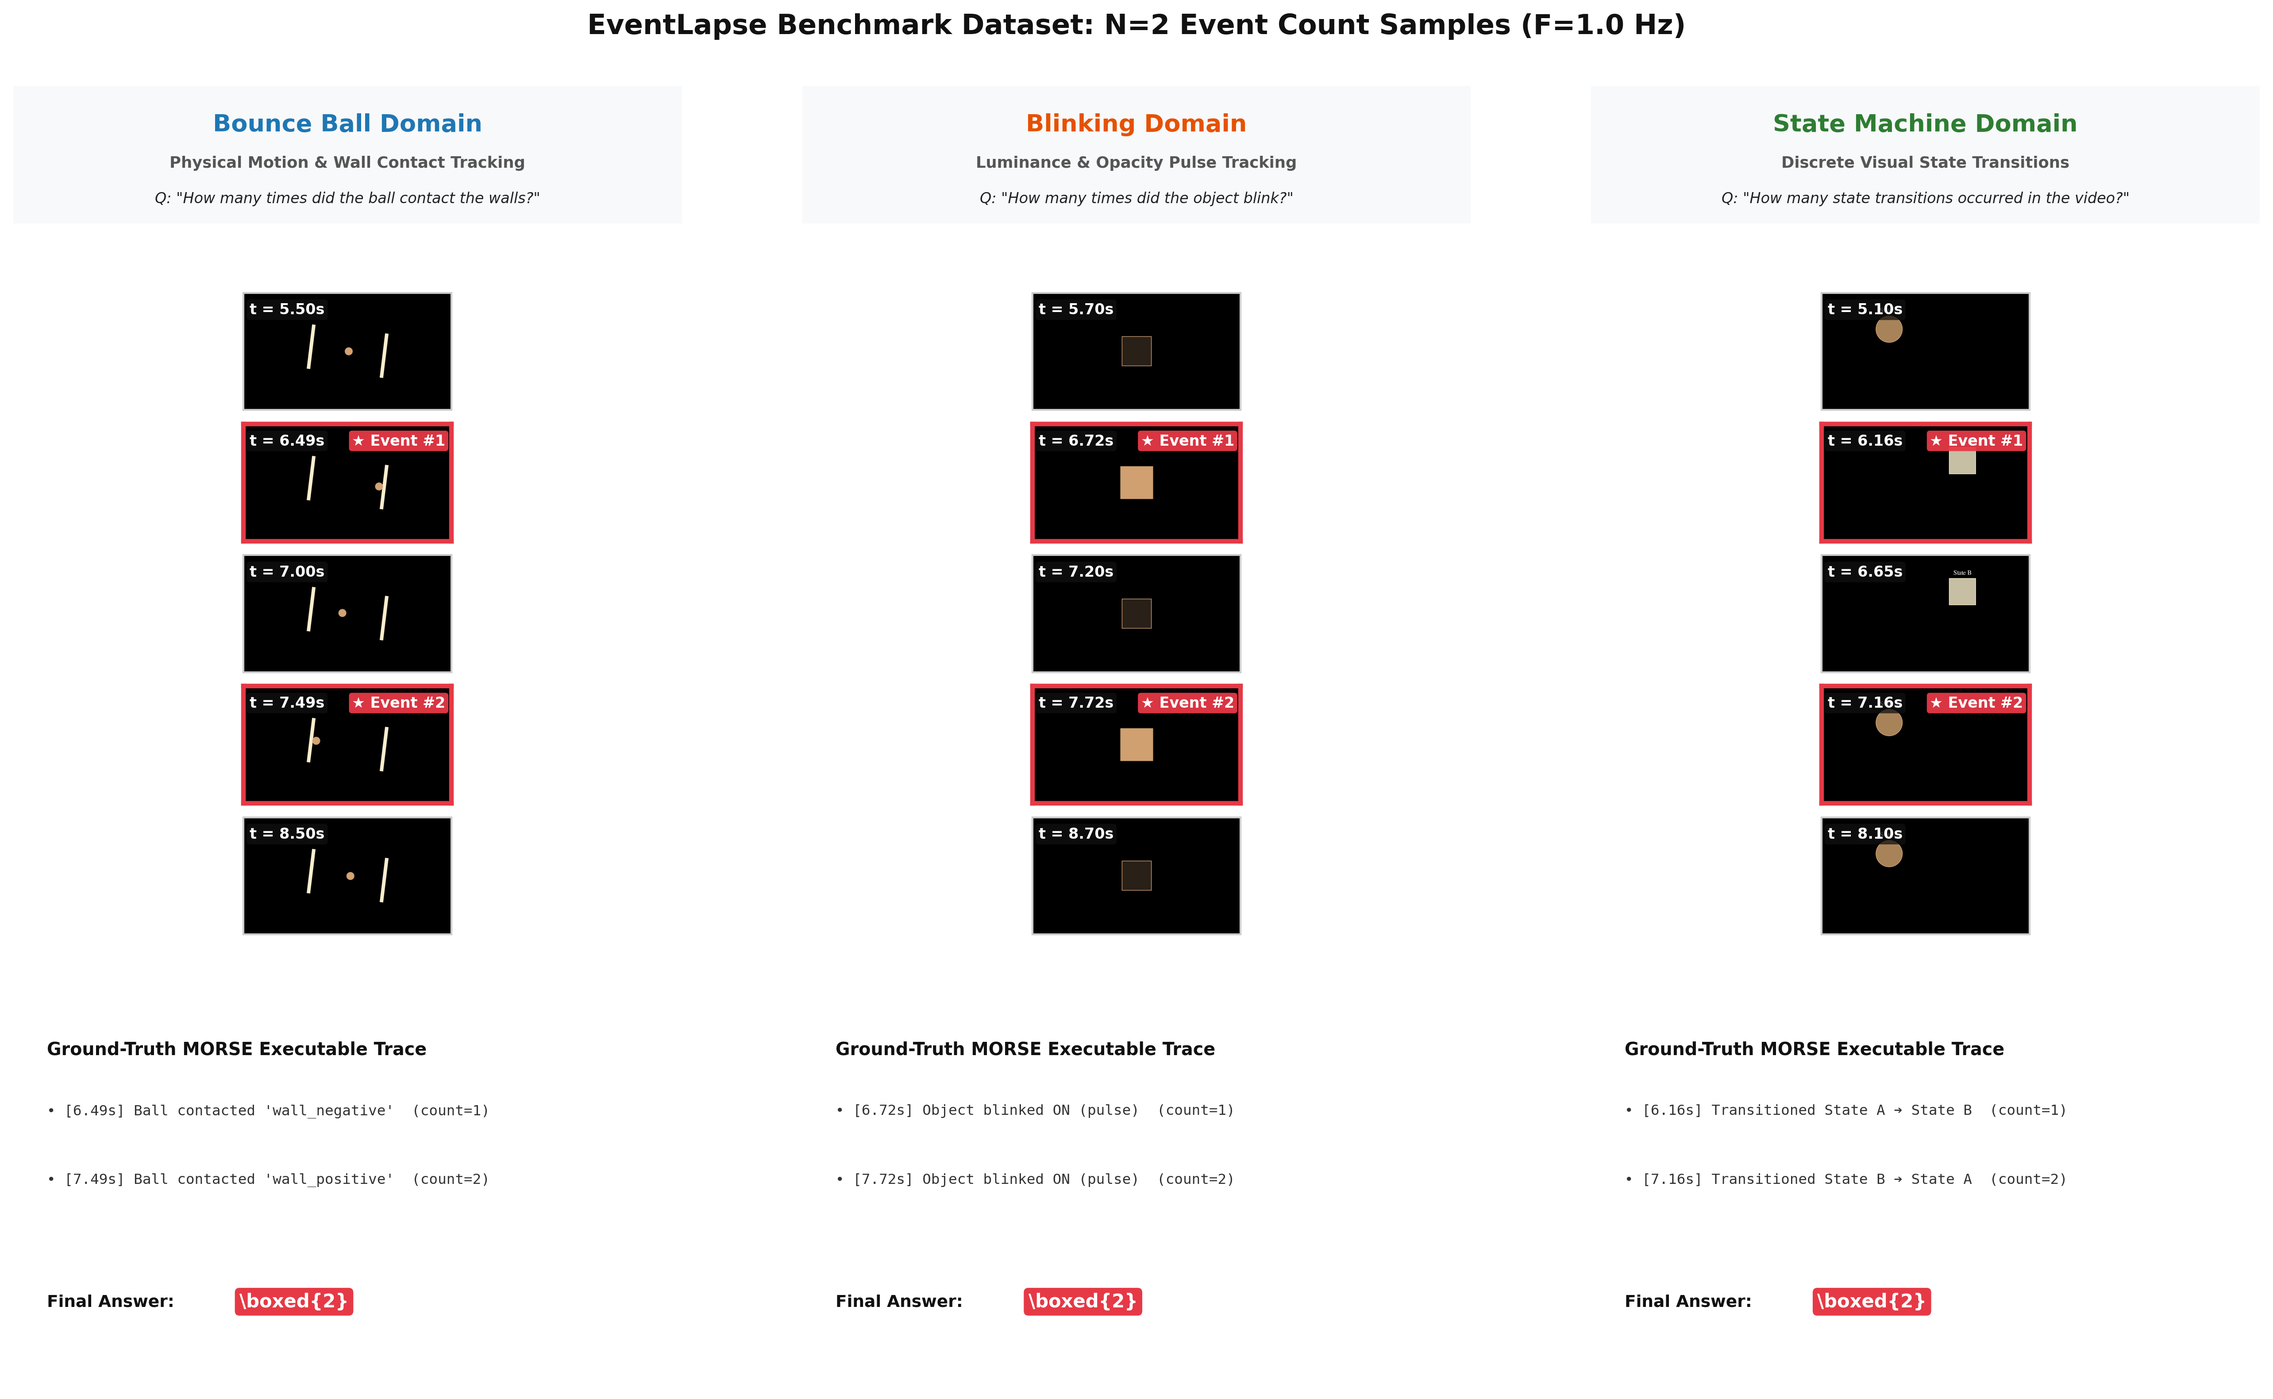
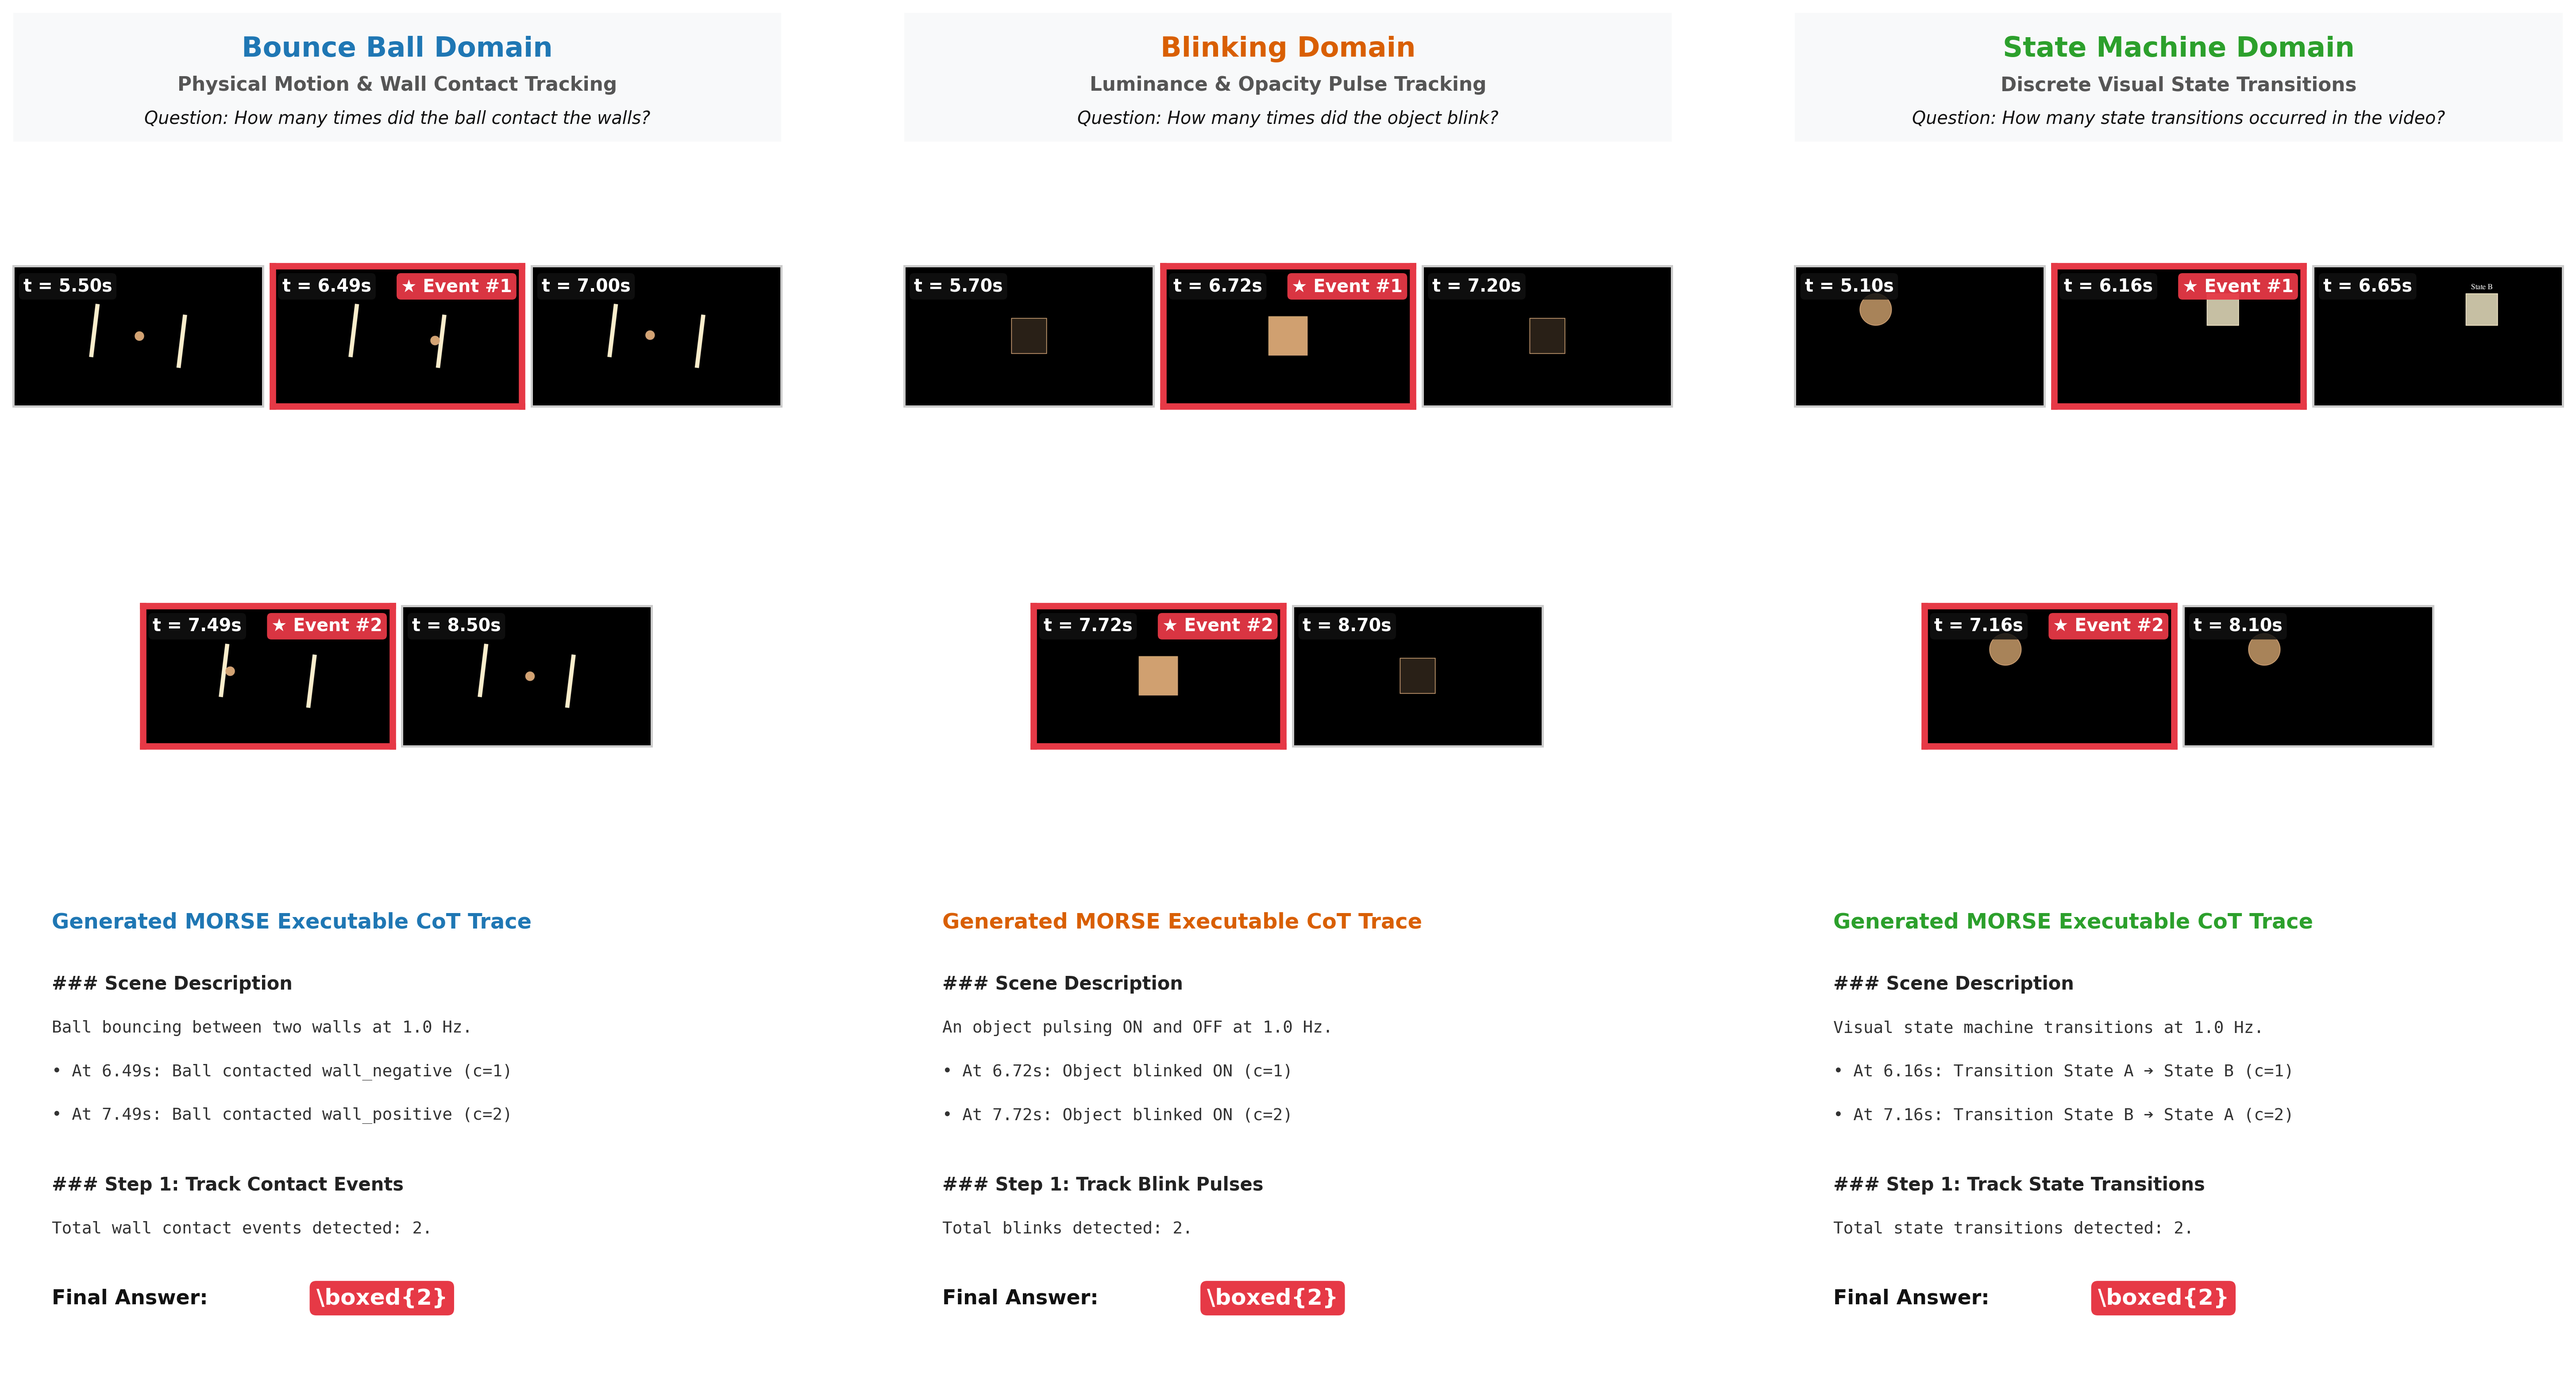
Update dataset overview figure with 2-row horizontal frame grid, larger text, no figure title, and full detailed CoT trace text

diff --git a/scripts/make_dataset_overview_figure.py b/scripts/make_dataset_overview_figure.py
@@ -38,35 +38,62 @@ def build_dataset_overview_figure(output_path: Path):
         {
             "domain": "Bounce Ball Domain",
             "subtitle": "Physical Motion & Wall Contact Tracking",
-            "question": "Q: \"How many times did the ball contact the walls?\"",
+            "question": "Question: How many times did the ball contact the walls?",
             "video_path": demo_dir / "videos/bounce_ball/bounce_N2_F1.0_seed0.mp4",
-            "gt_path": demo_dir / "gt/bounce_ball/bounce_N2_F1.0_seed0_gt.json",
-            "trace_path": demo_dir / "traces/bounce_ball/bounce_N2_F1.0_seed0_trace.json",
             "sample_ts": [5.50, 6.49, 7.00, 7.49, 8.50],
-            "event_indices": [1, 3], # 0-indexed position in sample_ts that are events
+            "event_indices": [1, 3],
             "color": "#1f77b4",
+            "cot_lines": [
+                "### Scene Description",
+                "Ball bouncing between two walls at 1.0 Hz.",
+                "• At 6.49s: Ball contacted wall_negative (c=1)",
+                "• At 7.49s: Ball contacted wall_positive (c=2)",
+                "",
+                "### Step 1: Track Contact Events",
+                "Total wall contact events detected: 2.",
+                "",
+                "Final Answer:  \\boxed{2}"
+            ]
         },
         {
             "domain": "Blinking Domain",
             "subtitle": "Luminance & Opacity Pulse Tracking",
-            "question": "Q: \"How many times did the object blink?\"",
+            "question": "Question: How many times did the object blink?",
             "video_path": demo_dir / "videos/blinking/blinking_N2_F1.0_seed0.mp4",
-            "gt_path": demo_dir / "gt/blinking/blinking_N2_F1.0_seed0_gt.json",
-            "trace_path": demo_dir / "traces/blinking/blinking_N2_F1.0_seed0_trace.json",
             "sample_ts": [5.70, 6.72, 7.20, 7.72, 8.70],
             "event_indices": [1, 3],
-            "color": "#e65100",
+            "color": "#d95f02",
+            "cot_lines": [
+                "### Scene Description",
+                "An object pulsing ON and OFF at 1.0 Hz.",
+                "• At 6.72s: Object blinked ON (c=1)",
+                "• At 7.72s: Object blinked ON (c=2)",
+                "",
+                "### Step 1: Track Blink Pulses",
+                "Total blinks detected: 2.",
+                "",
+                "Final Answer:  \\boxed{2}"
+            ]
         },
         {
             "domain": "State Machine Domain",
             "subtitle": "Discrete Visual State Transitions",
-            "question": "Q: \"How many state transitions occurred in the video?\"",
+            "question": "Question: How many state transitions occurred in the video?",
             "video_path": demo_dir / "videos/state_machine/state_N2_F1.0_seed0.mp4",
-            "gt_path": demo_dir / "gt/state_machine/state_N2_F1.0_seed0_gt.json",
-            "trace_path": demo_dir / "traces/state_machine/state_N2_F1.0_seed0_trace.json",
             "sample_ts": [5.10, 6.16, 6.65, 7.16, 8.10],
             "event_indices": [1, 3],
-            "color": "#2e7d32",
+            "color": "#2ca02c",
+            "cot_lines": [
+                "### Scene Description",
+                "Visual state machine transitions at 1.0 Hz.",
+                "• At 6.16s: Transition State A ➔ State B (c=1)",
+                "• At 7.16s: Transition State B ➔ State A (c=2)",
+                "",
+                "### Step 1: Track State Transitions",
+                "Total state transitions detected: 2.",
+                "",
+                "Final Answer:  \\boxed{2}"
+            ]
         }
     ]
 
@@ -74,48 +101,51 @@ def build_dataset_overview_figure(output_path: Path):
     plt.rcParams["figure.facecolor"] = "white"
     plt.rcParams["axes.facecolor"] = "white"
 
-    fig = plt.figure(figsize=(18, 11), dpi=300, facecolor="white")
-    
-    # 3 Main Columns
-    col_gs = gridspec.GridSpec(1, 3, figure=fig, wspace=0.18, left=0.03, right=0.97, top=0.92, bottom=0.03)
+    # Widescreen 3-column figure layout
+    fig = plt.figure(figsize=(20, 11), dpi=300, facecolor="white")
+    col_gs = gridspec.GridSpec(1, 3, figure=fig, wspace=0.16, left=0.02, right=0.98, top=0.96, bottom=0.02)
 
     for c_idx, tinfo in enumerate(tasks_info):
-        # Sub-gridspec for each column (Header, Frames, Trace)
         col_sub = gridspec.GridSpecFromSubplotSpec(3, 1, subplot_spec=col_gs[c_idx],
-                                                   height_ratios=[0.9, 4.2, 2.5], hspace=0.18)
+                                                   height_ratios=[0.8, 3.8, 3.2], hspace=0.14)
 
-        # --- 1. Header Box (Title & Prompt) ---
+        # --- 1. Header Box (Domain & Prompt) ---
         ax_header = fig.add_subplot(col_sub[0])
         ax_header.axis("off")
 
         header_patch = FancyBboxPatch((0.0, 0.0), 1.0, 1.0, transform=ax_header.transAxes,
-                                      facecolor="#f8f9fa", edgecolor=tinfo["color"], linewidth=2.0,
+                                      facecolor="#f8f9fa", edgecolor=tinfo["color"], linewidth=2.5,
                                       boxstyle=BoxStyle("Round", pad=0.02))
         ax_header.add_patch(header_patch)
 
         ax_header.text(0.5, 0.72, tinfo["domain"], transform=ax_header.transAxes,
-                       fontsize=13, fontweight="bold", color=tinfo["color"], ha="center", va="center")
+                       fontsize=15, fontweight="bold", color=tinfo["color"], ha="center", va="center")
         ax_header.text(0.5, 0.44, tinfo["subtitle"], transform=ax_header.transAxes,
-                       fontsize=8.5, fontweight="bold", color="#555555", ha="center", va="center")
+                       fontsize=10.5, fontweight="bold", color="#555555", ha="center", va="center")
         ax_header.text(0.5, 0.18, tinfo["question"], transform=ax_header.transAxes,
-                       fontsize=8.0, fontstyle="italic", color="#222222", ha="center", va="center")
+                       fontsize=9.5, fontstyle="italic", color="#111111", ha="center", va="center")
 
-        # --- 2. Frames Grid (5 Big Frames Centered Around Events) ---
-        # Extract frames
+        # --- 2. 5 Large Frames arranged in 2 Horizontal Rows (Row 1: 3 frames, Row 2: 2 frames) ---
         extracted = [(ts, extract_frame_at_timestamp(tinfo["video_path"], ts)) for ts in tinfo["sample_ts"]]
 
         ax_frames_container = fig.add_subplot(col_sub[1])
         ax_frames_container.axis("off")
 
-        # Grid of 5 frames stacked vertically (or 5 frames vertically in each column)
-        frame_sub = gridspec.GridSpecFromSubplotSpec(5, 1, subplot_spec=col_sub[1], hspace=0.12)
+        frame_rows_gs = gridspec.GridSpecFromSubplotSpec(2, 6, subplot_spec=col_sub[1], hspace=0.25, wspace=0.08)
 
-        with open(tinfo["trace_path"], "r") as tf:
-            tr_data = json.load(tf)
-            events = tr_data.get("events", [])
+        # Frame 0, 1, 2 in Row 1 (spanning 2 columns each: cols 0-1, 2-3, 4-5)
+        # Frame 3, 4 in Row 2 (centered: cols 1-2, 3-4)
+        frame_positions = [
+            (0, slice(0, 2)), # Frame 0
+            (0, slice(2, 4)), # Frame 1 (Event #1)
+            (0, slice(4, 6)), # Frame 2
+            (1, slice(1, 3)), # Frame 3 (Event #2)
+            (1, slice(3, 5)), # Frame 4
+        ]
 
         for k, (ts, img) in enumerate(extracted):
-            ax_f = fig.add_subplot(frame_sub[k])
+            r_idx, c_slice = frame_positions[k]
+            ax_f = fig.add_subplot(frame_rows_gs[r_idx, c_slice])
             ax_f.imshow(img)
             ax_f.set_xticks([])
             ax_f.set_yticks([])
@@ -124,59 +154,55 @@ def build_dataset_overview_figure(output_path: Path):
             event_num = 1 if k == 1 else (2 if k == 3 else None)
 
             border_color = "#e63946" if is_event else "#cccccc"
-            border_width = 2.5 if is_event else 1.0
+            border_width = 3.5 if is_event else 1.2
 
             for spine in ax_f.spines.values():
                 spine.set_edgecolor(border_color)
                 spine.set_linewidth(border_width)
 
-            # Left badge: timestamp
-            ax_f.text(0.03, 0.82, f"t = {ts:.2f}s", transform=ax_f.transAxes,
-                      fontsize=8, fontweight="bold", color="white",
-                      bbox=dict(boxstyle="round,pad=0.2", facecolor="#111111", edgecolor="none", alpha=0.75))
+            # Top timestamp badge
+            ax_f.text(0.04, 0.82, f"t = {ts:.2f}s", transform=ax_f.transAxes,
+                      fontsize=9.5, fontweight="bold", color="white",
+                      bbox=dict(boxstyle="round,pad=0.25", facecolor="#111111", edgecolor="none", alpha=0.85))
 
-            # Right badge: Event indicator
+            # Event badge
             if is_event:
-                ax_f.text(0.97, 0.82, f"★ Event #{event_num}", transform=ax_f.transAxes,
-                          fontsize=8, fontweight="bold", color="white", ha="right",
-                          bbox=dict(boxstyle="round,pad=0.2", facecolor="#e63946", edgecolor="none", alpha=0.95))
+                ax_f.text(0.96, 0.82, f"★ Event #{event_num}", transform=ax_f.transAxes,
+                          fontsize=9.5, fontweight="bold", color="white", ha="right",
+                          bbox=dict(boxstyle="round,pad=0.25", facecolor="#e63946", edgecolor="none", alpha=0.95))
 
-        # --- 3. Actual Generated Trace Example ---
+        # --- 3. Full Detailed Generated Trace Box ---
         ax_trace = fig.add_subplot(col_sub[2])
         ax_trace.axis("off")
 
         trace_patch = FancyBboxPatch((0.0, 0.0), 1.0, 1.0, transform=ax_trace.transAxes,
-                                     facecolor="#ffffff", edgecolor="#cccccc", linewidth=1.5,
+                                     facecolor="#ffffff", edgecolor="#bbbbbb", linewidth=1.8,
                                      boxstyle=BoxStyle("Round", pad=0.02))
         ax_trace.add_patch(trace_patch)
 
-        ax_trace.text(0.05, 0.88, "Ground-Truth MORSE Executable Trace", transform=ax_trace.transAxes,
-                      fontsize=9.5, fontweight="bold", color="#111111", va="center")
+        ax_trace.text(0.05, 0.90, "Generated MORSE Executable CoT Trace", transform=ax_trace.transAxes,
+                      fontsize=11.5, fontweight="bold", color=tinfo["color"], va="center")
 
-        y_pos = 0.72
-        for idx, e in enumerate(events):
-            if "wall_identity" in e:
-                detail = f"Ball contacted '{e['wall_identity']}'"
-            elif "blink_index" in e:
-                detail = f"Object blinked ON (pulse)"
-            elif "from_state" in e:
-                detail = f"Transitioned State {e['from_state']} ➔ State {e['to_state']}"
+        y_pos = 0.78
+        for line in tinfo["cot_lines"]:
+            if not line:
+                y_pos -= 0.05
+                continue
+
+            if line.startswith("###"):
+                ax_trace.text(0.05, y_pos, line, transform=ax_trace.transAxes,
+                              fontsize=10.0, fontweight="bold", color="#222222", va="center")
+            elif line.startswith("Final Answer:"):
+                ax_trace.text(0.05, y_pos, "Final Answer:", transform=ax_trace.transAxes,
+                              fontsize=11.0, fontweight="bold", color="#111111", va="center")
+                ax_trace.text(0.48, y_pos, "\\boxed{2}", transform=ax_trace.transAxes,
+                              fontsize=12.0, fontweight="bold", color="white", va="center", ha="center",
+                              bbox=dict(boxstyle="round,pad=0.3", facecolor="#e63946", edgecolor="none"))
             else:
-                detail = "Event detected"
+                ax_trace.text(0.05, y_pos, line, transform=ax_trace.transAxes,
+                              fontsize=9.0, color="#333333", fontfamily="monospace", va="center")
 
-            line_str = f"• [{e['timestamp']:.2f}s] {detail}  (count={e['running_count']})"
-            ax_trace.text(0.05, y_pos, line_str, transform=ax_trace.transAxes,
-                          fontsize=7.8, color="#333333", fontfamily="monospace", va="center")
-            y_pos -= 0.18
-
-        ax_trace.text(0.05, 0.22, "Final Answer:", transform=ax_trace.transAxes,
-                      fontsize=9, fontweight="bold", color="#111111", va="center")
-        ax_trace.text(0.42, 0.22, "\\boxed{2}", transform=ax_trace.transAxes,
-                      fontsize=10, fontweight="bold", color="white", va="center", ha="center",
-                      bbox=dict(boxstyle="round,pad=0.25", facecolor="#e63946", edgecolor="none"))
-
-    fig.suptitle("EventLapse Benchmark Dataset: N=2 Event Count Samples (F=1.0 Hz)",
-                 fontsize=15, fontweight="bold", y=0.97, color="#111111")
+            y_pos -= 0.085
 
     output_path.parent.mkdir(parents=True, exist_ok=True)
     plt.savefig(output_path, dpi=300, bbox_inches="tight", facecolor="white")
